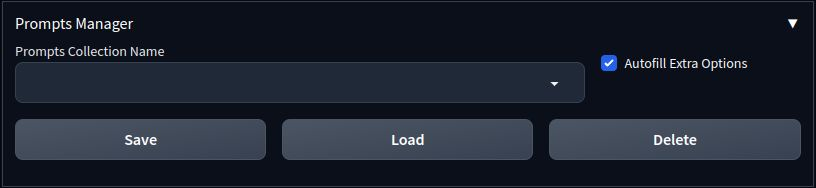
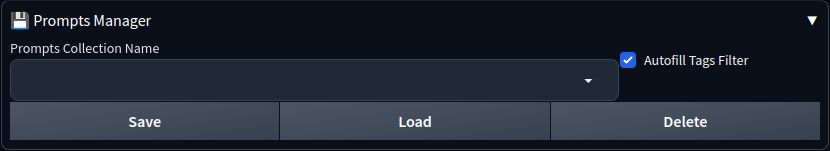
Updated Readme.

Changed region(s): [[0.0, 0.0, 1.0, 1.0], [0.0, 0.0795, 0.1838, 0.2119]]

diff --git a/scripts/lpp_extension.py b/scripts/lpp_extension.py
@@ -29,7 +29,7 @@ def try_send_request(lpp, *args):
     try:
         lpp.request_prompts(*args)
         return format_status_msg(
-            lpp, "Successfully fetched tags from Derpibooru."
+            lpp, f"Successfully fetched tags from {args[0]}."
         )
     except Exception as e:
         return format_status_msg(
@@ -74,8 +74,9 @@ def try_delete_prompts(lpp, name):
 class Scripts(scripts.Script):
     def __init__(self):
         self.lpp = LPP(base_dir)
-        self.config = get_merged_config_entry("a1111_ui", os.path.join(
-                                              base_dir, "config"))
+        self.config = get_merged_config_entry(
+            "a1111_ui", os.path.join(base_dir, "config")
+        )
 
     def title(self):
         return "Lazy Pony Prompter"
@@ -131,14 +132,12 @@ class Scripts(scripts.Script):
                             with gr.Row():
                                 d_filter_type = gr.Dropdown(
                                     label="Derpibooru Filter",
-                                    choices=self.lpp.sources["derpi"]["instance"].get_filters(
-                                    )
+                                    choices=self.lpp.sources["derpi"]["instance"].get_filters()
                                 )
                                 d_filter_type.value = d_filter_type.choices[0]
                                 d_sort_type = gr.Dropdown(
                                     label="Sort by",
-                                    choices=self.lpp.sources["derpi"]["instance"].get_sort_options(
-                                    )
+                                    choices=self.lpp.sources["derpi"]["instance"].get_sort_options()
                                 )
                                 d_sort_type.value = d_sort_type.choices[0]
                     with gr.Row():

diff --git a/README.md b/README.md
@@ -1,18 +1,34 @@
 # Lazy Pony Prompter
 
-A [Pony Diffusion V5](https://civitai.com/models/95367/pony-diffusion-v5) prompt helper extension for [AUTOMATIC1111's Stable Diffusion Web UI](https://github.com/AUTOMATIC1111/stable-diffusion-webui) that utilizes the full power of [Derpibooru](https://derpibooru.org) query syntax and filters.
+A pony prompt helper extension for [AUTOMATIC1111's Stable Diffusion Web UI](https://github.com/AUTOMATIC1111/stable-diffusion-webui) that utilizes the full power of your favorite booru query syntax. Currently supports [Derpibooru](https://derpibooru/org) and [E621](https://e621.net).
 
-![showcase](images/showcase.jpg)
+> **✨ October update new features highligh:**
+> * You can now choose between Derpibooru and E621 as tag sources
+> * [A1111 Styles](https://github.com/AUTOMATIC1111/stable-diffusion-webui/wiki/Features#styles) are now fully supported and should be correctly applied to LPP-generated prompts
+> * [EasyFluff](https://civitai.com/models/129996/easyfluff) is now supported (I haven't had much experience with it yet, so prompt formatting is very basic for now)
+> * Simple [globbing](https://en.wikipedia.org/wiki/Glob_(programming)) support for tag filter
 
-*\* images generated on recommended V5 settings from query `sweet dreams fuel, solo, safe, pony, -anthro`*
+E621 + [EasyFluff](https://civitai.com/models/129996/easyfluff) samples:
+
+![EasyFluff Showcase](images/ef-showcase.jpg)
+
+*\* images generated on EasyFluff V11.2 from query `my_little_pony solo -anthro -meme order:score -animated -text rating:safe -multiple_images`*
+
+Derpibooru + [Pony Diffusion V5](https://civitai.com/models/95367/pony-diffusion-v5) samples:
+
+![PDV5 Showcase](images/pdv5-showcase.jpg)
+
+*\* images generated on Pony Diffusion V5 from query `sweet dreams fuel, solo, safe, pony, -anthro`*
 
 # Installation
 
 ### ❗Requirements
 * [AUTOMATIC1111's Stable Diffusion Web UI](https://github.com/AUTOMATIC1111/stable-diffusion-webui);
-* [AstraliteHeart's Pony Diffusion V5](https://civitai.com/models/95367/pony-diffusion-v5) model;
-* Active internet connection for communication with [Derpibooru](https://derpibooru.org);
-* *(optional)* [Derpibooru](https://derpibooru.org) account.
+* One of recommended models (may work on other, less pony-capable models, too):
+  * [EasyFluff](https://civitai.com/models/129996/easyfluff);
+  * [Pony Diffusion V5](https://civitai.com/models/95367/pony-diffusion-v5);
+* Active internet connection for communication with boorus;
+* *(optional)* [Derpibooru](https://derpibooru.org) account for extra functionality.
 
 ### 🖵 From Web UI
 
@@ -34,39 +50,36 @@ or click the "code" button in the top right, then click "Download ZIP" and unzip
 ```
 
 # Usage
-LPP operates by making a prompt list from a [Derpibooru search query](https://derpibooru.org/pages/search_syntax) and then generating images using that list. Basically, it fetches tag data from a specified number of images in the query and converts it into "sensible" V5 prompts (character and important meta data tags are pushed closer to the beginning of the prompt; useless tags like `artist:*` or `dead source` are pruned; derpi rating is replaced with appropriate `rating_*` and so on...) and then randomly picks them to generate images. Now, lets take a look at the interface:
+LPP operates by making a prompt list from a search query to one of the supported booru sites and then generating images using that list. Basically, it fetches tag data from a specified number of images in the query and converts it into "sensible" model-specific prompts (useless meta tags are pruned; "important" tags, like character name, are pushed closer to the beginning of the prompt, and so on...) and then randomly picks them to generate images. Now, lets take a look at the interface:
 
 ![LPP interface](images/extension.jpg)
 
-The LPP controls are grouped into three foldable panels that are described below.
+A the very top you'll find the main controls for LPP: the`🗹 Enabled` checkbox, that controls whether LPP is active or not; the `Tag Source` dropdown, that selects one of the supported booru sites as the sorce for prompts and the `Prompts Format` dropdown that selects model-specific prompt formatting. Below you'll find other LPP controls grouped into three foldable panels:
 
-### 💬 Derpibooru Query
+### 💬 Query
 
-![Derpibooru Query Panel](images/derpi_query.jpg)
+> Warning
+>
+> EasyFluff formatter includes artist names in the prompt. Lets just say there's some potential for drama here, so use with caution. Use "EasyFluff (no artist names)" instead if you don't want artist names included.
 
-On this panel you can pull tag data from Derpibooru by typing in or pasting your query into the "Derpibooru Query" textbox (you can preliminarily tune your query on the actual website) using the [Derpibooru search syntax](https://derpibooru.org/pages/search_syntax). You can also set a number of additional options:
+> Note
+>
+> Look of this panel may vary slightly, depending on the selected tag source.
+
+![Query Panel](images/derpi_query.jpg)
+
+On this panel you can pull tag data from selected booru site by typing in or pasting your query into the query textbox (the syntax is exactly the same as on the actual website). You can also set a number of additional options:
 
 * **Number of prompts to load** - will attempt to fetch tag data from this number of images in the query;
-* **Derpibooru Filter** - will apply this [Derpibooru filter](https://derpibooru.org/filters) to the query. Only system filters are available by default. If you want to use your personal filters, you must provide an [API key](#-api-key);
-* **Sort by** - type of sorting to apply to the query. Wilson Score is the default;
+* **Derpibooru only:**
+  * *Derpibooru Filter* - will apply this [Derpibooru filter](https://derpibooru.org/filters) to the query. Only system filters are available by default. If you want to use your personal filters, you must provide an [API key](#-api-key);
+  * *Sort by* - type of sorting to apply to the query. Wilson Score is the default.
 
-Once you're happy with the settings, it's finally time to click the `Send` button. This will prompt LPP to send the search query to Derpibooru and generate prompts from the returned tag data. If all goes well, you'll see "Successfully fetched tags from Derpibooru. **X** prompts loaded. Ready to generate." in the LPP status bar at the very bottom. This means that LPP is now ready to poni and all you have to do is tick the `☑ Enabled` checkbox at the very top and hit the `Generate` button.
+Once you're happy with the settings, it's finally time to click the `Send` button. This will prompt LPP to send the search query to the site and generate prompts from the returned tag data. If all goes well, you'll see "Successfully fetched tags from *\<site\>*. *X* prompts loaded. Ready to generate." in the LPP status bar at the very bottom. This means that LPP is now ready to poni and all you have to do is tick the `☑ Enabled` checkbox at the very top and hit the `Generate` button.
 
-> **Note**
->
-> You can customize LPP behavior and prompt processing via configuration files. See [Advanced Configuration](#%EF%B8%8F-advanced-configuration).
+### 🏷 Tags Filter
 
-### ✅ Extra Options
-
-![Extra Options Panel](images/extra_options.jpg)
-
-This panel allows you to set some additional prompt processing when generating images:
-
-* **Prompts Prefix** - all prompts will begin with this text;
-* **Prompts Suffix** - all prompts will end with this text;
-* **Prune These Tags from Prompts** - you can specify additional tags to prune from prompts here (comma separated).
-
-These options are evaluated before every generation, so you can use it to tweak your currently loaded prompt collection.
+This panel allows you to filter out unwanted tags from generated prompts. Just type in a comma-separated list of tags you don't want to see in the generated prompts and they will be filtered out before image generation begins. Note, that simple [globbing](https://en.wikipedia.org/wiki/Glob_(programming)) is supported (i. e. you can use `*` to match anything, for example `*butt*` will filter out any tags containing word "butt"). The filter textbox is evaluated before every generation, so you can use it to tweak your currently loaded prompts collection.
 
 ### 💾 Prompts Manager
 
@@ -76,27 +89,27 @@ This panel is used to manage your prompt collections locally.
 
 You can save your currently loaded prompts for future use by typing in the desired name in the `Prompts Collection Name` textbox and clicking the `Save` button.
 
-You can load previously saved prompts by selecting the desired collection from `Prompts Collection Name` textbox (just start typing the name or select it from the dropdown hint) and clicking the `Load` button. If you have the `Autofill Extra Options` checkbox ticked, it will also populate the `Prefix`, `Suffix` and `Tag Filter` textboxes automatically if available (values of these textboxes are written to the prompts collection info when you save it).
+You can load previously saved prompts by selecting the desired collection from `Prompts Collection Name` textbox (just start typing the name or select it from the dropdown hint) and clicking the `Load` button. If you have the `Autofill Tags Filter` checkbox ticked, it will also populate the `Tag Filter` textboxe automatically if available (tag filter text is written to the prompts collection info when you save it).
 
 To delete unwanted collection, select it from the `Prompts Collection Name` textbox and click the `Delete` button.
 
-### 🚫 Negative Prompt Handling
+### ✨ Prompts Styling
 
-LPP includes "standard" V5 negative prompt by default. This can be disabled by unticking the "Include Standard Negative Prompt" checkbox. The "standard" negative prompt is appended to whatever you type in the normal webui negative prompt textbox.
+LPP fully supports [A1111 styles feature](https://github.com/AUTOMATIC1111/stable-diffusion-webui/wiki/Features#styles). Any styles you select in the style box will be correctly applied to LPP-generated prompts. Furthermore, you can use the standard A1111 prompt textbox in the same way. By default, the prompt textbox content will be appended to LPP prompts, but you can alter that by including the special `{prompt}` token in a place where you want the LPP-generated prompts to be pasted. Examples:
+
+* *Place special Pony Diffusion V5 tags at the front:* `source_pony, score_9, {prompt}`;
+* *Pad EasyFluff prompt with some quality tags:* `best quality, {prompt}, by ivan shishkin`.
 
 ### 🔑 API Key
 
-To further personalize your queries you can provide LPP with your personal Derpibooru API key (requires Derpibooru account). This will enable LPP to use your personal [Derpibooru filters](https://derpibooru.org/filters) and access images from your watch list. To provide the API key, you must create the `api_key` file in the root LPP extension directory (normally this would be `.../stable-diffusion-webui/extentions/lazy-pony-prompter`) with a text editor of your choice and paste your personal API key into that file. The API key must be the first line in the file. You can obtain an API key from your Derpibooru account info page (hover over your user icon -> Account).
+To further personalize your queries you can provide LPP with your personal Derpibooru API key (requires Derpibooru account). This will enable LPP to use your personal [Derpibooru filters](https://derpibooru.org/filters) and access images from your watch list. To provide an API key, you must create a file named `derpi` (no extension) in the `.../stable-diffusion-webui/extentions/lazy-pony-prompter/auth` directory (create it if it doesn't exist) with a text editor of your choice and paste your personal API key into that file. The API key must be the first line in the file. You can obtain an API key from your Derpibooru account info page (hover over your user icon -> Account).
 
 ### ⚙ Advanced Configuration
 
-LPP can be customized to suit you personal preferences via [JSON](https://en.wikipedia.org/wiki/JSON) configuration files located in `.../stable-diffusion-webui/extensions/lazy-pony-prompter/config/`. If you navigate to that directory, you'll see it already contains a number of JSON files. **Do not edit these.** They will be overwritten any time you update LPP. Instead, create a file of the same name, but prefixed with `my_`. For example, if you want to add more filtered tags, create `my_filtered_tags.json` file. You only need to specify the values you want to override - user config files are merged to the default ones (lists are concatenated). Purpose of the files are as follows:
+LPP can be customized to suit you personal preferences via [JSON](https://en.wikipedia.org/wiki/JSON) configuration files located in `.../stable-diffusion-webui/extensions/lazy-pony-prompter/config/`. If you navigate to that directory, you'll see it already contains a number of JSON files. **Do not edit these.** They will be overwritten any time you update LPP. Instead, create a file of the same name, but prefixed with `my_`. For example, if you want to customize Derpibooru related configuration, create `my_derpi.json` file. You only need to specify the values you want to override - user config files are merged to the default ones (lists are concatenated). Purpose of the files are as follows:
 
 * **a1111_ui.json** - controls the user interface starting/default values, such as prompt count slider min/max values, whether the extension should start folded or unfolded and so on;
-* **lpp.json** - contains general system lookups and parameters (generally, these shoud not be changed by the user, except for `negative_prompt`);
-* **character_tags.json** - contains a list of character tags (these are pushed to the beginning of the prompt);
-* **prioritized_tags.json** - contains a list of "important" tags that are pushed to the beginning of the prompt, right after character tags;
-* **filtered_tags.json** - contains a list of tags that are pruned from prompts.
+* **derpi.json** - contains configuration related to Derpibooru.
 
 #### Examples
 
@@ -113,17 +126,18 @@ Make LPP start unfolded and change max prompts count to 400:
 }
 ```
 
-Extend filtered tags list:
+Extend filtered tags list for Derpibooru:
 
-*my_filtered_tags.json*
+*my_derpi.json*
 
 ```json
 {
-    "exact": [
-        "freckles",
-        "fat",
-        "large butt"
-    ]
+    "filtered_tags":
+        "exact": [
+            "freckles",
+            "fat",
+            "large butt"
+        ]
 }
 ```
 
@@ -132,11 +146,12 @@ Extend filtered tags list:
 * 💬 Want to request a feature or have suggestions on how to improve the extension? Open up a [discussion](https://github.com/Siberpone/lazy-pony-prompter/discussions).
 * You can see the latest additions to LPP in the [Changelog](CHANGELOG.md).
 * LPP works best with images with high upvote/score count as those tend to be the most fully and properly tagged.
-* LPP overrides webui prompts processing completely and, thus, not compatible with dynamic prompting extensions.
-* LPP is very light on traffic since it uses the Derpibooru API and only pulls necessary text data and not the actual webpages or images.
+* LPP overrides webui prompts processing completely and, thus, not compatible with dynamic prompting extensions (you don't have to uninstall them or anything, just don't run them simultaneously with LPP).
+* LPP is very light on traffic since it uses the website's API and only pulls necessary text data and not the actual webpages or images.
 * Your saved prompts are stored in `cache.json` file in the root extension directory.
 * Useful links:
     * [purplesmart.ai](https://purplesmart.ai) aka PSAI - V5 creators website with gallery and prompt examples.
     * [PSAI Discord server](http://discord.gg/94KqBcE) - poni AI discussion, help, tech support and free V5 bot.
+    * [EasyFluff](https://civitai.com/models/129996/easyfluff)
     * [Stable Diffusion Guides Collection](https://rentry.org/sdgoldmine)
 * 🐎 Please, poni responsibly 🐴🦄🪶.
